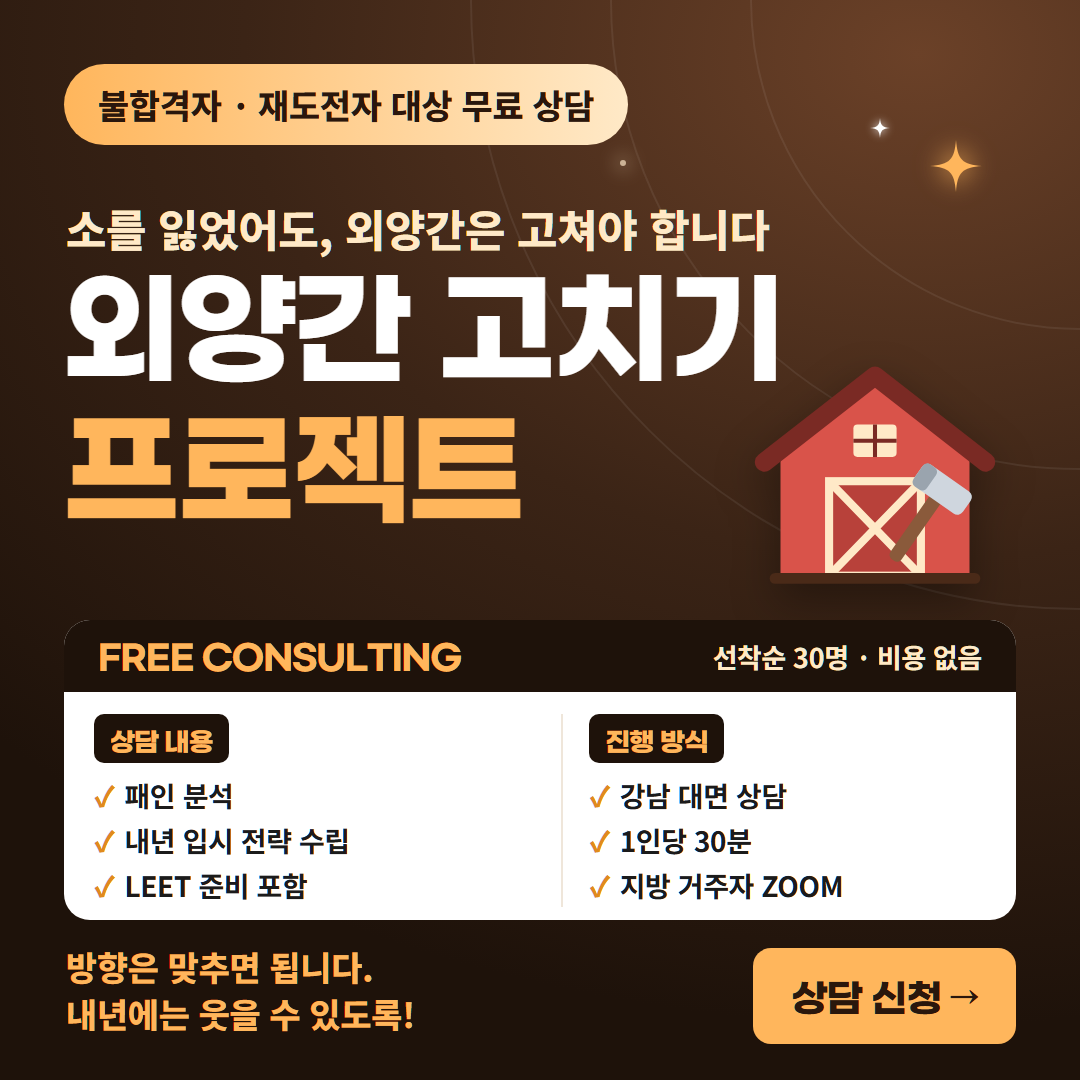
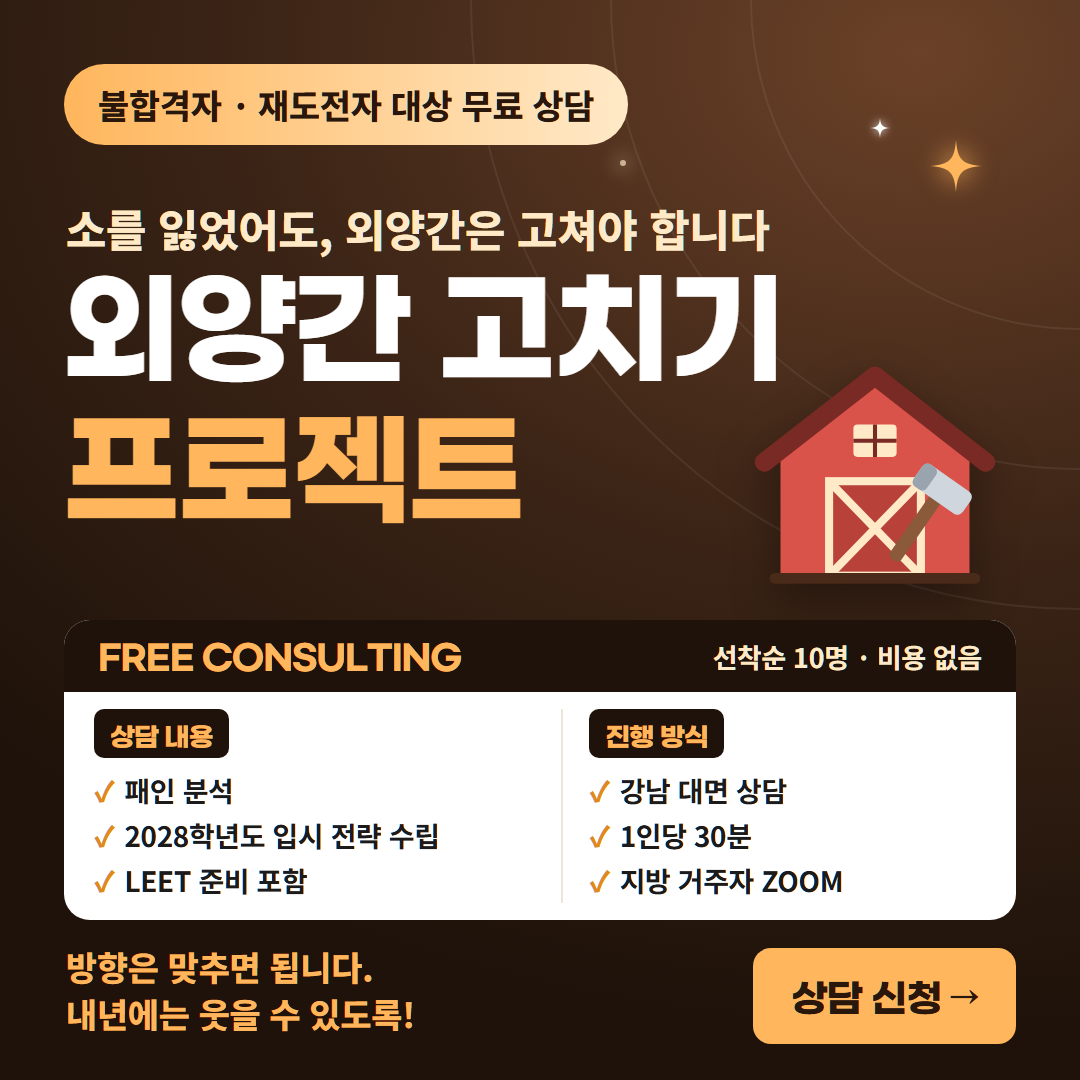
면접 제보·외양간 고치기 배너 최신본 반영

Changed region(s): [[0.55, 0.6417, 0.7944, 0.8556], [0.0917, 0.6417, 0.4278, 0.8556]]

diff --git a/js/config.js b/js/config.js
@@ -44,7 +44,7 @@ window.SITE_CONFIG = {
   // 이미지 원본: E:\OneDrive_SH_Post_LEET6\홍보\이미지\배너_정사각_1080_*.png / 배너_가로_2000x400_*.png → img/banners/sq-*.png / wide-*.png
   // url이 비어 있으면 눌러도 이동하지 않는다(멘토링·서포터스는 주소 미정). 빼려면 목록에서 지운다.
   // 배너 그림을 같은 이름으로 덮어쓰면 이 값을 바꾼다(브라우저가 예전 그림을 다시 쓰지 않게).
-  bannerVersion: '20261128c',
+  bannerVersion: '20261128d',
   banners: [
     { key: 'interview',  alt: '면접 문제 제보 — 가·나군 면접 응시생 리워드 증정', url: 'https://forms.cloud.microsoft/r/9hYfptwVrL' },
     { key: 'result',     alt: '로스쿨 입시 결과 제보 EVENT', url: 'https://cafe.daum.net/lsinfo/nafW/79' },
